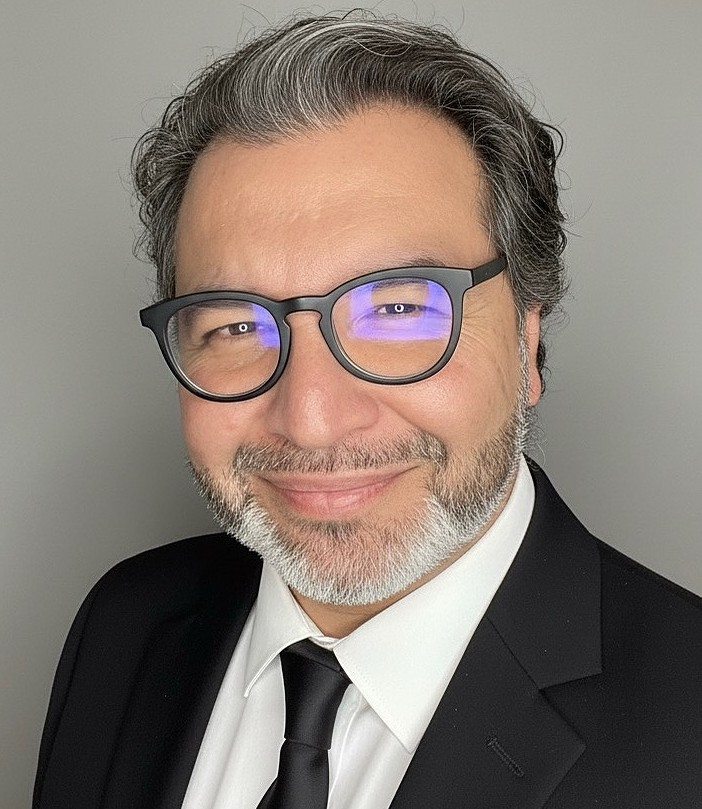
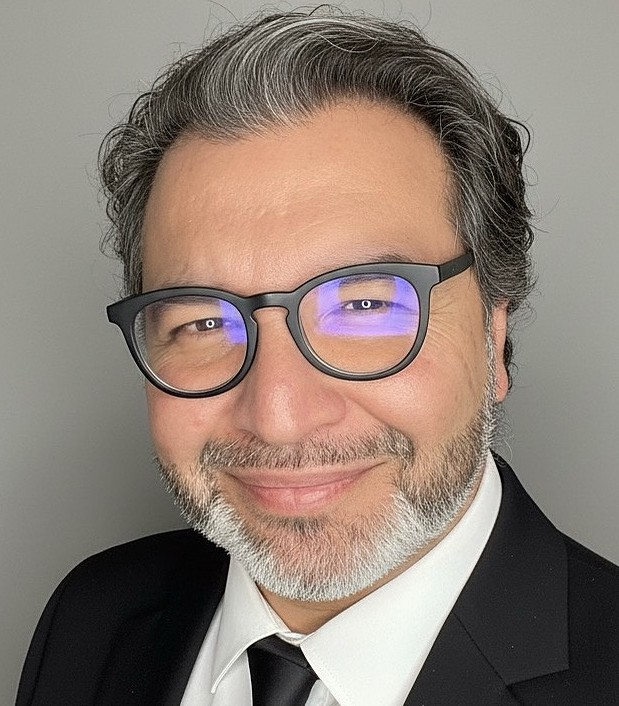
Revisando nitidez de foto

diff --git a/assets/style.css b/assets/style.css
@@ -271,12 +271,18 @@ h1{ margin: 0 0 10px; font-size: 44px; letter-spacing: -0.02em; }
 }
 
 .profile-photo{
-  width: 96px;
-  height: 96px;
-  border-radius: 999px;
+  width: 112px;
+  height: 112px;
+  border-radius: 50%;
   object-fit: cover;
+
+  image-rendering: auto;
+  transform: translateZ(0);
+
   border: 1px solid var(--line);
   display: block;
   margin: 0 0 12px;
 }
+
+
 
